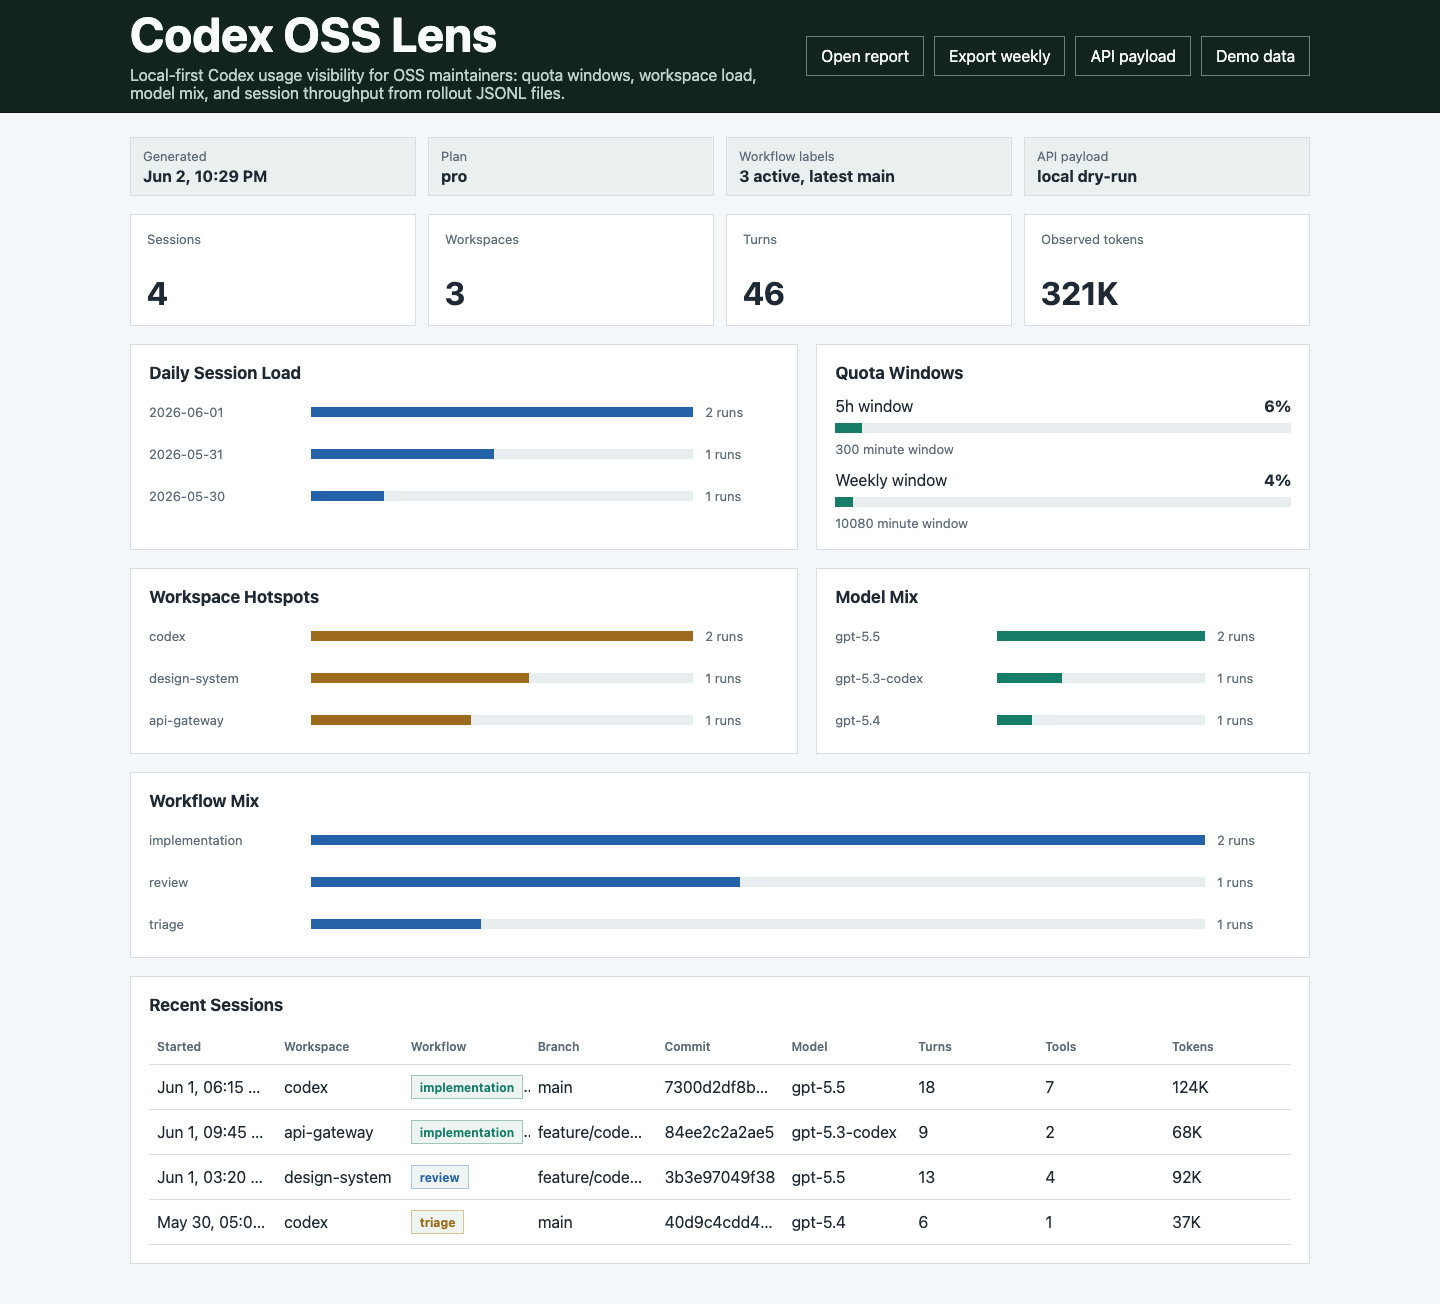
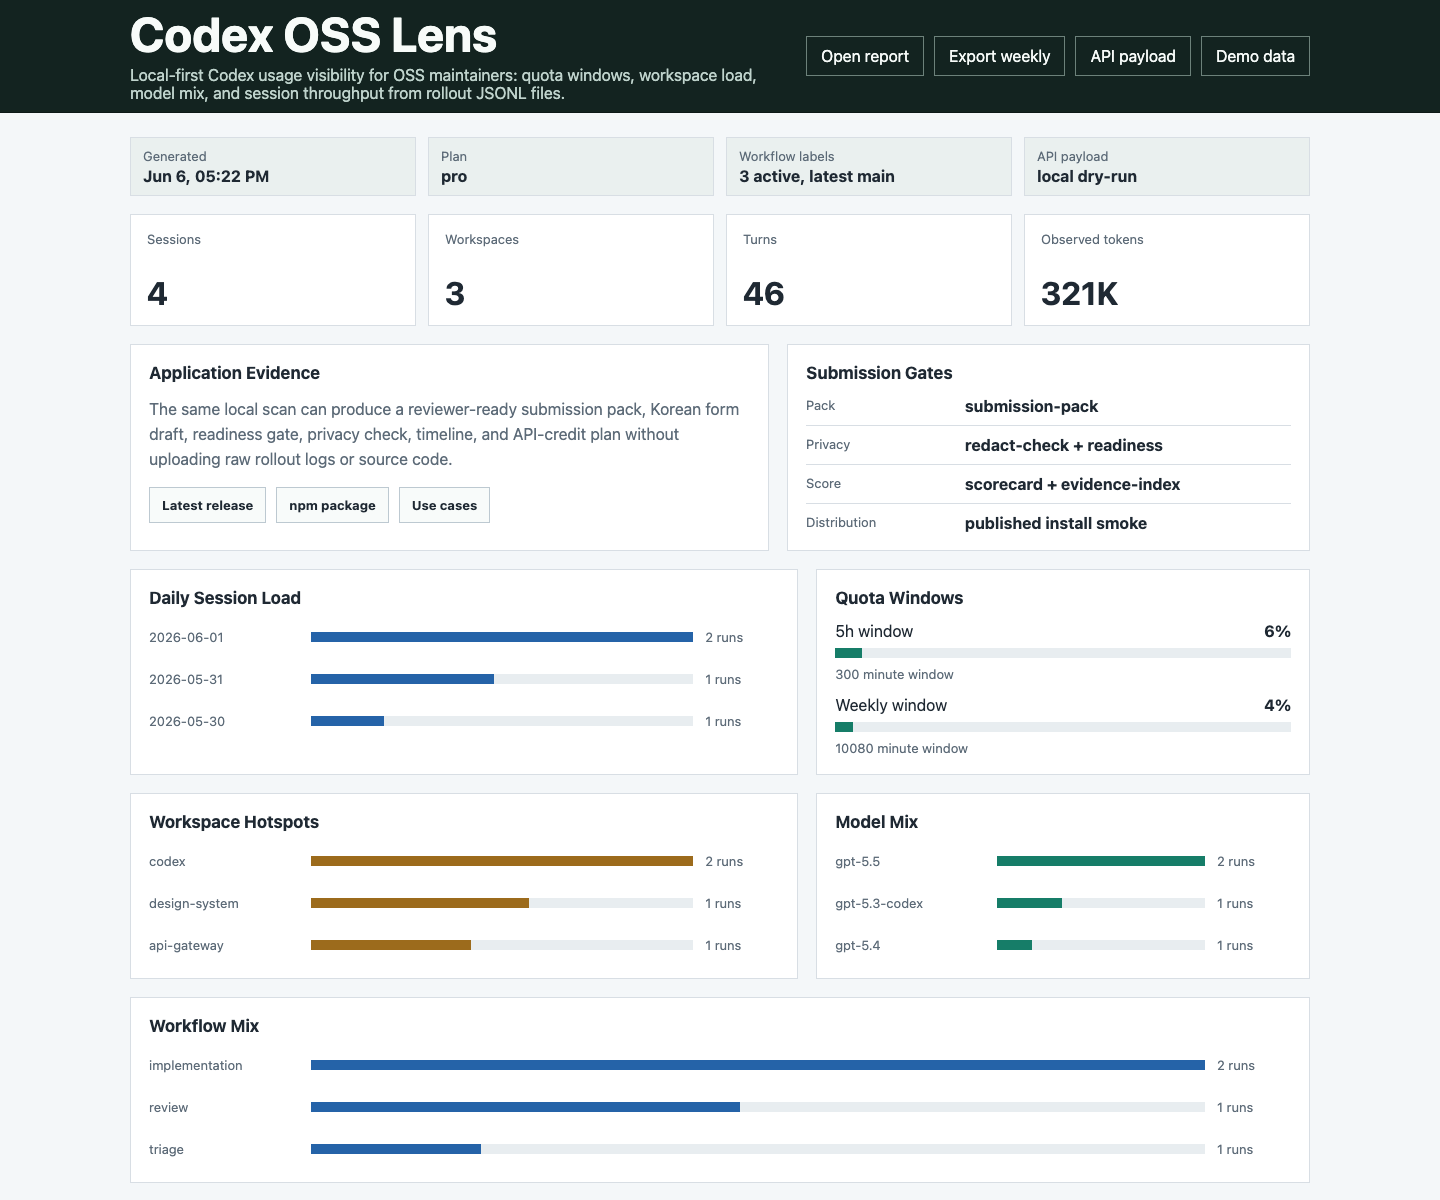
Strengthen public submission evidence before final application
The project is now published, so the final pre-application pass focuses on public reviewer signals: npm-first usage, scheduled registry verification, visible dashboard evidence, maintainer workflow documentation, and refreshed screenshots.

Constraint: npm token was revoked after publish, so this commit keeps package version at the already-published v1.6.1 and records changes as unreleased polish

Rejected: Add another package release without npm publication | would make the GitHub release and npm latest diverge before application

Confidence: high

Scope-risk: narrow

Directive: Publish a new npm version before moving these unreleased changes into a tagged package release

Tested: npm test; npm run pack:check; npm run pack:smoke; npm exec --yes --package codex-oss-lens@latest -- codex-oss-lens demo; Chrome headless desktop/mobile screenshots

Not-tested: GitHub scheduled workflow runtime before push

diff --git a/public/index.html b/public/index.html
@@ -28,6 +28,7 @@
           Inter, ui-sans-serif, system-ui, -apple-system, BlinkMacSystemFont, "Segoe UI", sans-serif;
         background: var(--band);
         color: var(--ink);
+        overflow-x: hidden;
       }
 
       button,
@@ -72,6 +73,7 @@
         margin: 0;
         max-width: 760px;
         color: #bfd3cc;
+        overflow-wrap: anywhere;
       }
 
       .actions {
@@ -79,6 +81,7 @@
         gap: 10px;
         align-items: center;
         flex-wrap: wrap;
+        max-width: 100%;
       }
 
       .file-button,
@@ -155,6 +158,13 @@
         gap: 18px;
       }
 
+      .evidence-band {
+        display: grid;
+        grid-template-columns: 1.1fr 0.9fr;
+        gap: 18px;
+        margin-bottom: 18px;
+      }
+
       .panel {
         padding: 18px;
         min-width: 0;
@@ -163,6 +173,53 @@
       .panel h2 {
         margin: 0 0 14px;
         font-size: 17px;
+      }
+
+      .evidence-copy {
+        margin: 0;
+        color: var(--muted);
+        line-height: 1.55;
+      }
+
+      .evidence-actions {
+        display: flex;
+        flex-wrap: wrap;
+        gap: 10px;
+        margin-top: 16px;
+      }
+
+      .link-button {
+        min-height: 36px;
+        display: inline-flex;
+        align-items: center;
+        border: 1px solid #bdc9d1;
+        color: var(--ink);
+        background: #f8fbfa;
+        padding: 0 12px;
+        text-decoration: none;
+        font-size: 13px;
+        font-weight: 700;
+      }
+
+      .evidence-list {
+        margin: 0;
+        padding: 0;
+        display: grid;
+        gap: 10px;
+        list-style: none;
+      }
+
+      .evidence-list li {
+        display: grid;
+        grid-template-columns: minmax(120px, 0.45fr) 1fr;
+        gap: 12px;
+        padding-bottom: 10px;
+        border-bottom: 1px solid var(--line);
+      }
+
+      .evidence-list li:last-child {
+        padding-bottom: 0;
+        border-bottom: 0;
       }
 
       .bar-list {
@@ -291,8 +348,22 @@
           padding: 22px 0;
         }
 
+        .actions {
+          display: grid;
+          grid-template-columns: repeat(2, minmax(0, 1fr));
+          width: 100%;
+        }
+
+        .file-button,
+        .ghost-button {
+          justify-content: center;
+          width: 100%;
+          min-width: 0;
+        }
+
         .kpis,
         .meta-row,
+        .evidence-band,
         .grid {
           grid-template-columns: 1fr;
         }
@@ -328,6 +399,30 @@
       <main>
         <section class="meta-row" id="metaRow"></section>
         <section class="kpis" id="kpis"></section>
+        <section class="evidence-band">
+          <article class="panel">
+            <h2>Application Evidence</h2>
+            <p class="evidence-copy">
+              The same local scan can produce a reviewer-ready submission pack, Korean form draft,
+              readiness gate, privacy check, timeline, and API-credit plan without uploading raw
+              rollout logs or source code.
+            </p>
+            <div class="evidence-actions">
+              <a class="link-button" href="https://github.com/dbunk903/codex-oss-lens/releases/latest">Latest release</a>
+              <a class="link-button" href="https://www.npmjs.com/package/codex-oss-lens">npm package</a>
+              <a class="link-button" href="https://github.com/dbunk903/codex-oss-lens/blob/main/docs/maintainer-use-cases.md">Use cases</a>
+            </div>
+          </article>
+          <article class="panel">
+            <h2>Submission Gates</h2>
+            <ul class="evidence-list">
+              <li><span class="label">Pack</span><strong>submission-pack</strong></li>
+              <li><span class="label">Privacy</span><strong>redact-check + readiness</strong></li>
+              <li><span class="label">Score</span><strong>scorecard + evidence-index</strong></li>
+              <li><span class="label">Distribution</span><strong>published install smoke</strong></li>
+            </ul>
+          </article>
+        </section>
         <section class="grid">
           <article class="panel">
             <h2>Daily Session Load</h2>

diff --git a/docs/maintainer-use-cases.md b/docs/maintainer-use-cases.md
@@ -1,0 +1,65 @@
+# Maintainer Use Cases
+
+Codex OSS Lens is designed for maintainers who use Codex across real open-source maintenance work
+and need a local, reviewable way to explain that usage.
+
+## 1. Weekly maintainer review
+
+Run a local scan before a weekly review to see which repositories consumed the most Codex attention,
+which workflows dominated the week, and whether recent sessions are pushing quota windows.
+
+```bash
+npx -y codex-oss-lens@latest scan --out codex-report.json
+npx -y codex-oss-lens@latest weekly --out weekly-report.md
+```
+
+The weekly report is safe to share because workspace paths are redacted by default and raw rollout
+logs are never included.
+
+## 2. OSS support application evidence
+
+Generate a complete evidence folder before an OSS support or grant application. The pack includes a
+brief, readiness report, timeline, scorecard, API-credit plan, evidence index, and Korean form draft.
+
+```bash
+npx -y codex-oss-lens@latest submission-pack --repo owner/project --out-dir codex-submission-pack
+npx -y codex-oss-lens@latest pack-validate codex-submission-pack --markdown pack-validation.md
+```
+
+This gives reviewers concrete artifacts without requiring access to local logs, prompts, terminal
+output, or source code.
+
+## 3. API-credit planning
+
+Use aggregate session data to decide which Codex workflow deserves API automation first. The API
+plan ranks candidates by sessions, turns, tool calls, and observed token pressure.
+
+```bash
+npx -y codex-oss-lens@latest api-plan --report codex-submission-pack/scan-report.json --markdown api-plan.md
+```
+
+Good early candidates are repeated implementation summaries, review briefs, issue triage, and
+release evidence generation.
+
+## 4. Privacy review before sharing
+
+Before posting evidence in a public issue, release note, or application, run the privacy gates.
+
+```bash
+npx -y codex-oss-lens@latest redact-check codex-submission-pack --out redact-check.json
+npx -y codex-oss-lens@latest readiness --manifest codex-submission-pack/manifest.json --markdown readiness.md
+```
+
+The checks flag local paths, rollout filenames, raw-log markers, and likely secrets.
+
+## 5. Published package confidence
+
+Use the published install smoke command to prove the public package is installable and emits a valid
+demo report.
+
+```bash
+npm exec --yes --package codex-oss-lens@latest -- codex-oss-lens demo
+```
+
+The repository also includes a scheduled GitHub Actions workflow that runs this check against npm
+`latest`, so package regressions are visible outside the maintainer machine.

diff --git a/README.md b/README.md
@@ -1,6 +1,7 @@
 # Codex OSS Lens
 
 [![release](https://img.shields.io/github/v/release/dbunk903/codex-oss-lens?label=release)](https://github.com/dbunk903/codex-oss-lens/releases)
+[![npm](https://img.shields.io/npm/v/codex-oss-lens?label=npm)](https://www.npmjs.com/package/codex-oss-lens)
 [![license](https://img.shields.io/github/license/dbunk903/codex-oss-lens)](LICENSE)
 [![node](https://img.shields.io/badge/node-%3E%3D20-167d68)](package.json)
 [![privacy](https://img.shields.io/badge/privacy-local--first-2563a8)](docs/api-credit-workflow.md)
@@ -32,6 +33,28 @@ paths to a hosted service.
 
 ![Dashboard preview](examples/dashboard-preview.png)
 
+![Mobile dashboard preview](examples/dashboard-mobile-preview.png)
+
+## Try the published package
+
+```bash
+npx -y codex-oss-lens@latest serve --demo
+```
+
+The CLI is published on npm as
+[`codex-oss-lens`](https://www.npmjs.com/package/codex-oss-lens). For a global install:
+
+```bash
+npm install -g codex-oss-lens
+codex-oss-lens serve --demo
+```
+
+For a registry smoke check without opening the UI:
+
+```bash
+npm exec --yes --package codex-oss-lens@latest -- codex-oss-lens demo
+```
+
 ## Current status
 
 | Area | Status |
@@ -59,6 +82,8 @@ paths to a hosted service.
 | Pack validation | Required-file, score, readiness, and privacy validation |
 | NPM publish check | Login, registry, package metadata, and OTP guidance |
 | Published install smoke | `npm exec` verification for the published CLI |
+| Published package | Available on npm as `codex-oss-lens` |
+| Published smoke CI | Scheduled and manual GitHub Actions verification |
 
 ## Quick start
 
@@ -70,10 +95,10 @@ npm run serve
 
 Then open `http://127.0.0.1:5057`.
 
-After the package is published, the same UI can run with `npx`:
+The same UI can run from the published npm package:
 
 ```bash
-npx codex-oss-lens serve --demo
+npx -y codex-oss-lens@latest serve --demo
 ```
 
 To write a report that can be opened in the static UI:
@@ -285,6 +310,8 @@ See [report schema](docs/report-schema.md) for the generated JSON shape.
 
 See [API-credit workflow](docs/api-credit-workflow.md) for the privacy-first API plan.
 See [npm publishing](docs/npm-publishing.md) for package verification steps.
+See [maintainer use cases](docs/maintainer-use-cases.md) for practical OSS workflows this tool
+supports.
 
 ## Maintainer Brief
 

diff --git a/application/form-answers.md b/application/form-answers.md
@@ -16,8 +16,10 @@ Source form: https://openai.com/ko-KR/form/codex-for-oss/
 
 - Repository: https://github.com/dbunk903/codex-oss-lens
 - Latest release: https://github.com/dbunk903/codex-oss-lens/releases/tag/v1.6.1
+- npm package: https://www.npmjs.com/package/codex-oss-lens
 - Roadmap: https://github.com/dbunk903/codex-oss-lens/blob/main/ROADMAP.md
 - API-credit workflow: https://github.com/dbunk903/codex-oss-lens/blob/main/docs/api-credit-workflow.md
+- Maintainer use cases: https://github.com/dbunk903/codex-oss-lens/blob/main/docs/maintainer-use-cases.md
 - Closed issues: #1, #2, #3, #4, #5, #6, #7, #8, #9, #10, #11, #12, #14, #15, #16, #17, #18, #19, #20, #21, #22, #23, #24, #25, #26, #27
 - Open development issues: None blocking application submission
 
@@ -36,7 +38,7 @@ API 크레딧은 로컬 집계 결과를 기반으로 주간 메인테이너 리
 
 ## Additional information - max 500 Korean characters
 
-현재 v1.6.1 공개 릴리스와 npm 패키지가 있습니다. 의존성 없는 Node CLI와 정적 UI로 quota/token 분석, Git/workflow/outcome linking, API dry-run, doctor, CI, npm pack/published install smoke test를 제공합니다. `submission-pack`, `form-draft`, `pack-validate`가 신청 evidence를 검증합니다.
+현재 v1.6.1 공개 릴리스와 npm 패키지가 있습니다. 의존성 없는 Node CLI와 정적 UI로 quota/token 분석, Git/workflow/outcome linking, API dry-run, doctor, CI, published install smoke test를 제공합니다. `submission-pack`, `form-draft`, `pack-validate`가 신청 evidence를 검증합니다.
 
 ## Final manual submission steps
 

diff --git a/application/publish-checklist.md b/application/publish-checklist.md
@@ -5,7 +5,7 @@
 3. Add a short repository description: `Local-first usage dashboard for OpenAI Codex session logs.` Done.
 4. Add topics: `openai`, `codex`, `usage-dashboard`, `oss-maintenance`, `jsonl`. Done.
 5. Create an initial release `v0.1.0`. Done. Follow-up releases through `v1.6.1` also published.
-6. Open 3 starter issues. Done. Issues #1 through #12 and #14 through #27 were implemented and closed except #13.
+6. Open 3 starter issues. Done. Issues #1 through #27 were implemented and closed.
    - Add redaction controls for workspace paths
    - Add weekly maintainer report export
    - Connect GitHub PR/issue outcomes to Codex sessions
@@ -14,4 +14,12 @@
 
 ## Deferred
 
-- npm publish completed for `codex-oss-lens@1.6.0`; `v1.6.1` verifies published install smoke from an isolated temporary directory.
+- npm publish completed for `codex-oss-lens@1.6.1`; published install smoke verifies the npm package from an isolated temporary directory.
+
+## Final pre-submission polish
+
+- Published npm usage is now visible at the top of the README.
+- Scheduled/manual GitHub Actions smoke-check the npm `latest` package.
+- Dashboard shows application evidence and submission gates in the first viewport after the KPIs.
+- Maintainer use cases document weekly review, application evidence, API-credit planning, privacy review, and published package confidence.
+- Application draft links point at the current public release, npm package, roadmap, and API-credit workflow.

diff --git a/CHANGELOG.md b/CHANGELOG.md
@@ -1,5 +1,14 @@
 # Changelog
 
+## Unreleased - Pre-submission Polish
+
+- Added top-level README npm usage, npm badge, and published package smoke command.
+- Added scheduled/manual GitHub Actions verification for the npm `latest` package.
+- Added an application evidence and submission-gates section to the dashboard UI.
+- Added maintainer use-case documentation for weekly review, application evidence, API-credit
+  planning, privacy review, and published package confidence.
+- Updated application materials with npm package and maintainer use-case links.
+
 ## v1.6.1 - Published Install Smoke Fix
 
 - Ran published-package install smoke checks from a temporary directory so local repository state
